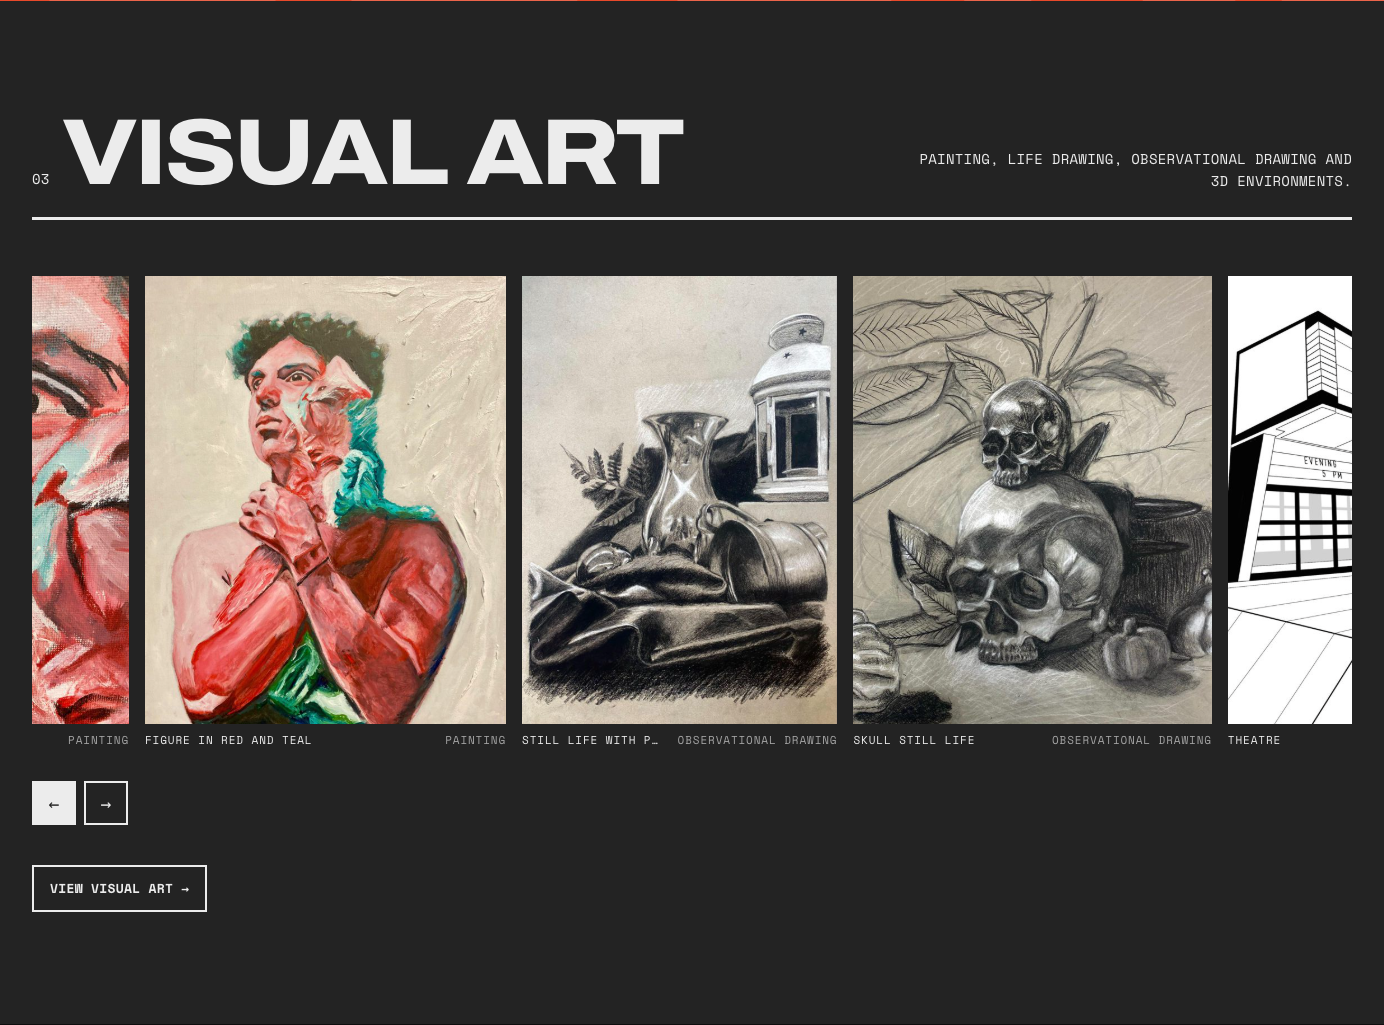
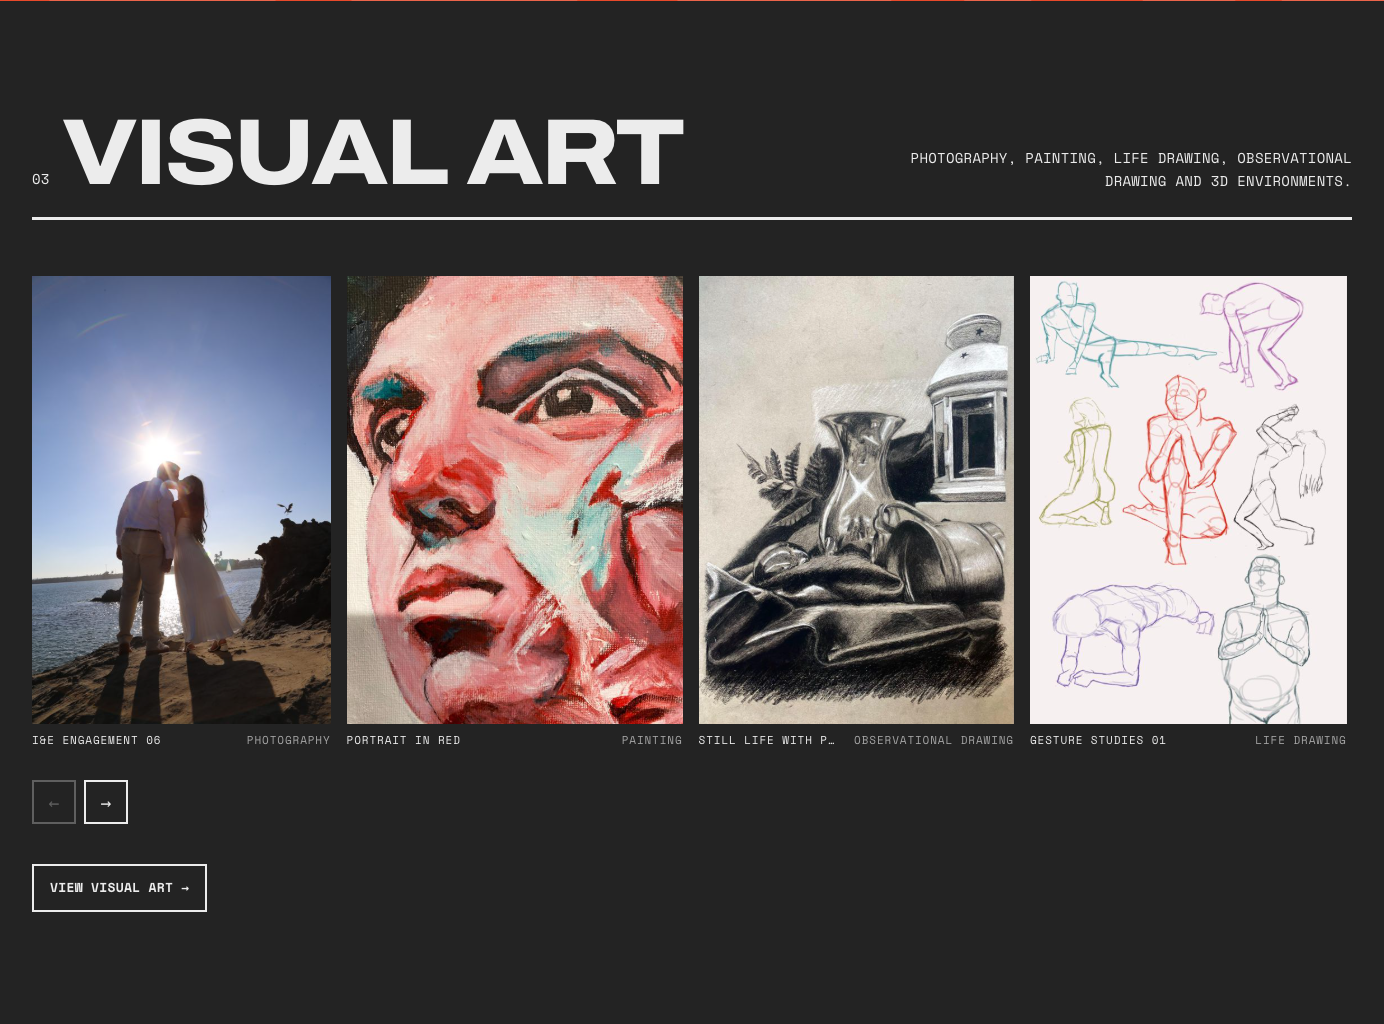
Add photography (54 photos in 4 collections) and mix the homepage art carousel

diff --git a/src/content/photography.ts b/src/content/photography.ts
@@ -1,0 +1,134 @@
+import type { PhotoCollection } from '../types/content'
+
+export const photoCollections: { id: PhotoCollection; label: string }[] = [
+  { id: 'weddings', label: 'Weddings & Engagements' },
+  { id: 'portraits', label: 'Portraits & Graduations' },
+  { id: 'food', label: 'Food & Product' },
+  { id: 'travel', label: 'Travel & Architecture' },
+]
+
+export interface PhotoEntry {
+  slug: string
+  series: string
+  collection: PhotoCollection
+  title: string
+  width: number
+  height: number
+  featured: boolean
+  altText: string
+}
+
+// Photos live in public/media/art/photo/ as <slug>.jpg (max 2000px) and
+// <slug>-thumb.jpg (max 800px). Full-size originals are kept in
+// photo-originals/ (not published). `featured: true` adds a photo to the
+// homepage carousel.
+export const photos: PhotoEntry[] = [
+  { slug: '5th-avenue-bagel-1', series: "5th Avenue Bagel", collection: 'food', title: "5th Avenue Bagel 01", width: 1333, height: 2000, featured: false,
+    altText: "Two pizza bagels with pepperoni on a dark wooden serving board" },
+  { slug: '5th-avenue-bagel-2', series: "5th Avenue Bagel", collection: 'food', title: "5th Avenue Bagel 02", width: 1333, height: 2000, featured: true,
+    altText: "Close-up of sesame and poppy seed bagels stacked on a wooden board" },
+  { slug: '5th-avenue-bagel-3', series: "5th Avenue Bagel", collection: 'food', title: "5th Avenue Bagel 03", width: 1333, height: 2000, featured: false,
+    altText: "Avocado, tomato and red onion bagel sandwiches on a wooden board" },
+  { slug: '5th-avenue-bagel-4', series: "5th Avenue Bagel", collection: 'food', title: "5th Avenue Bagel 04", width: 1333, height: 2000, featured: false,
+    altText: "Two avocado bagel sandwiches angled on a wooden board in soft light" },
+  { slug: '5th-avenue-bagel-5', series: "5th Avenue Bagel", collection: 'food', title: "5th Avenue Bagel 05", width: 1333, height: 2000, featured: false,
+    altText: "Two cups of fresh orange juice beside halved oranges" },
+  { slug: '5th-avenue-bagel-6', series: "5th Avenue Bagel", collection: 'food', title: "5th Avenue Bagel 06", width: 1333, height: 2000, featured: false,
+    altText: "Assorted everything and sesame bagels on a wooden board in late light" },
+  { slug: 'christian-and-riley-wedding-1', series: "Christian + Riley Wedding", collection: 'weddings', title: "Christian + Riley Wedding 01", width: 2000, height: 1333, featured: false,
+    altText: "Groom in a navy suit kissing the bride beside a bouquet of white and blue flowers" },
+  { slug: 'christian-and-riley-wedding-2', series: "Christian + Riley Wedding", collection: 'weddings', title: "Christian + Riley Wedding 02", width: 1333, height: 2000, featured: false,
+    altText: "Bride's hand with engagement ring holding a bouquet of white and blue flowers" },
+  { slug: 'christian-and-riley-wedding-3', series: "Christian + Riley Wedding", collection: 'weddings', title: "Christian + Riley Wedding 03", width: 2000, height: 1333, featured: false,
+    altText: "Bride and two friends smiling and pointing at her engagement ring in front of a fountain" },
+  { slug: 'emmanuel-graduation-1', series: "Emmanuel, Graduation", collection: 'portraits', title: "Emmanuel, Graduation 01", width: 1333, height: 2000, featured: false,
+    altText: "Graduate in cap and gown lying on the grass, smiling, with his cap beside him" },
+  { slug: 'emmanuel-headshots-1', series: "Emmanuel, Headshots", collection: 'portraits', title: "Emmanuel, Headshots 01", width: 1333, height: 2000, featured: false,
+    altText: "Young man in a black shirt standing against a white wall for a professional headshot" },
+  { slug: 'emmanuel-headshots-2', series: "Emmanuel, Headshots", collection: 'portraits', title: "Emmanuel, Headshots 02", width: 1333, height: 2000, featured: false,
+    altText: "Young man in a black shirt leaning on a white column in a gallery space" },
+  { slug: 'iande-engagement-1', series: "I&E Engagement", collection: 'weddings', title: "I&E Engagement 01", width: 2000, height: 1333, featured: false,
+    altText: "Couple sitting together on beach rocks at sunset with palm trees behind" },
+  { slug: 'iande-engagement-2', series: "I&E Engagement", collection: 'weddings', title: "I&E Engagement 02", width: 2000, height: 1333, featured: false,
+    altText: "Couple laughing on coastal rocks while a seagull stands nearby" },
+  { slug: 'iande-engagement-3', series: "I&E Engagement", collection: 'weddings', title: "I&E Engagement 03", width: 2000, height: 1333, featured: false,
+    altText: "Couple holding hands as they walk across sunlit coastal rocks" },
+  { slug: 'iande-engagement-4', series: "I&E Engagement", collection: 'weddings', title: "I&E Engagement 04", width: 1333, height: 2000, featured: false,
+    altText: "Close-up of a couple holding hands, his watch and her pleated white dress" },
+  { slug: 'iande-engagement-5', series: "I&E Engagement", collection: 'weddings', title: "I&E Engagement 05", width: 2000, height: 1333, featured: false,
+    altText: "Couple kissing among barrel cacti in a desert garden under a wavy canopy" },
+  { slug: 'iande-engagement-6', series: "I&E Engagement", collection: 'weddings', title: "I&E Engagement 06", width: 1333, height: 2000, featured: true,
+    altText: "Couple kissing on a cliff edge with the sun bursting behind them" },
+  { slug: 'iande-engagement-7', series: "I&E Engagement", collection: 'weddings', title: "I&E Engagement 07", width: 2000, height: 1333, featured: false,
+    altText: "Couple standing hand in hand on a path lined with agave plants" },
+  { slug: 'iande-engagement-8', series: "I&E Engagement", collection: 'weddings', title: "I&E Engagement 08", width: 2000, height: 1333, featured: false,
+    altText: "Couple reclining together on smooth coastal rock" },
+  { slug: 'iande-engagement-9', series: "I&E Engagement", collection: 'weddings', title: "I&E Engagement 09", width: 1333, height: 2000, featured: false,
+    altText: "Couple embracing by the ocean at golden hour" },
+  { slug: 'iande-proposal-1', series: "I&E Proposal", collection: 'weddings', title: "I&E Proposal 01", width: 1333, height: 2000, featured: false,
+    altText: "Close-up of a hand with a new engagement ring resting on a partner's chest" },
+  { slug: 'iande-proposal-2', series: "I&E Proposal", collection: 'weddings', title: "I&E Proposal 02", width: 1333, height: 2000, featured: false,
+    altText: "Newly engaged couple walking along the beach below hillside homes" },
+  { slug: 'iande-proposal-3', series: "I&E Proposal", collection: 'weddings', title: "I&E Proposal 03", width: 1333, height: 2000, featured: false,
+    altText: "Man kissing his fianc\u00e9e as she shows off her ring by the ocean" },
+  { slug: 'iande-proposal-4', series: "I&E Proposal", collection: 'weddings', title: "I&E Proposal 04", width: 1333, height: 2000, featured: false,
+    altText: "Newly engaged couple smiling by a railing above the sea" },
+  { slug: 'iande-proposal-5', series: "I&E Proposal", collection: 'weddings', title: "I&E Proposal 05", width: 1333, height: 2000, featured: true,
+    altText: "Man kneeling to propose on a clifftop overlook above the ocean" },
+  { slug: 'iande-proposal-6', series: "I&E Proposal", collection: 'weddings', title: "I&E Proposal 06", width: 1333, height: 2000, featured: false,
+    altText: "Two hands against an overcast sky, one wearing a diamond engagement ring" },
+  { slug: 'ingly-bridal-shower-1', series: "Ingly Bridal Shower", collection: 'weddings', title: "Ingly Bridal Shower 01", width: 1333, height: 2000, featured: false,
+    altText: "Bride-to-be and friends blowing kisses beside blue and yellow balloons at a lemon-themed bridal shower" },
+  { slug: 'ingly-bridal-shower-2', series: "Ingly Bridal Shower", collection: 'weddings', title: "Ingly Bridal Shower 02", width: 1333, height: 2000, featured: false,
+    altText: "Bride-to-be laughing as friends celebrate under a striped awning" },
+  { slug: 'ingly-bridal-shower-3', series: "Ingly Bridal Shower", collection: 'weddings', title: "Ingly Bridal Shower 03", width: 2000, height: 1333, featured: false,
+    altText: "Guests cheering and fanning the bride-to-be as she walks through the party" },
+  { slug: 'ingly-bridal-shower-4', series: "Ingly Bridal Shower", collection: 'weddings', title: "Ingly Bridal Shower 04", width: 2000, height: 1333, featured: false,
+    altText: "Bride-to-be chatting with guests in a garden decorated with lemons" },
+  { slug: 'julian-graduation-1', series: "Julian, Graduation", collection: 'portraits', title: "Julian, Graduation 01", width: 1333, height: 2000, featured: true,
+    altText: "Graduate in cap, gown and orange stole standing proudly in front of the university seal" },
+  { slug: 'julian-graduation-2', series: "Julian, Graduation", collection: 'portraits', title: "Julian, Graduation 02", width: 2000, height: 1333, featured: false,
+    altText: "Graduate holding up a decorated cap that reads 'If it's free, it's for me'" },
+  { slug: 'julian-graduation-3', series: "Julian, Graduation", collection: 'portraits', title: "Julian, Graduation 03", width: 1333, height: 2000, featured: false,
+    altText: "Smiling graduate in cap and CSUF stole in front of a science building" },
+  { slug: 'krisp-menu-1', series: "KRISP Menu", collection: 'food', title: "KRISP Menu 01", width: 1333, height: 2000, featured: false,
+    altText: "Chocolate cookie on a white plate against grey marble" },
+  { slug: 'krisp-menu-2', series: "KRISP Menu", collection: 'food', title: "KRISP Menu 02", width: 1333, height: 2000, featured: false,
+    altText: "Almond croissant on a white plate against grey marble" },
+  { slug: 'krisp-menu-3', series: "KRISP Menu", collection: 'food', title: "KRISP Menu 03", width: 1333, height: 2000, featured: false,
+    altText: "Spinach quiche in a paper case on a white plate" },
+  { slug: 'krisp-menu-4', series: "KRISP Menu", collection: 'food', title: "KRISP Menu 04", width: 1333, height: 2000, featured: false,
+    altText: "Almond croissant dusted with sugar on a white plate" },
+  { slug: 'krisp-menu-5', series: "KRISP Menu", collection: 'food', title: "KRISP Menu 05", width: 2000, height: 1333, featured: false,
+    altText: "Chocolate-drizzled almond pastry on a white plate" },
+  { slug: 'krisp-menu-6', series: "KRISP Menu", collection: 'food', title: "KRISP Menu 06", width: 1333, height: 2000, featured: false,
+    altText: "Plain butter croissant on a white plate on marble" },
+  { slug: 'krisp-menu-7', series: "KRISP Menu", collection: 'food', title: "KRISP Menu 07", width: 1333, height: 2000, featured: true,
+    altText: "Close-up of a chocolate-drizzled almond pastry on a white plate" },
+  { slug: 'krisp-menu-8', series: "KRISP Menu", collection: 'food', title: "KRISP Menu 08", width: 1333, height: 2000, featured: false,
+    altText: "Cupcake topped with a swirl of cream on a white plate" },
+  { slug: 'krisp-menu-9', series: "KRISP Menu", collection: 'food', title: "KRISP Menu 09", width: 2000, height: 1333, featured: false,
+    altText: "Cream-filled Danish pastry on a white plate, shot from above" },
+  { slug: 'osaka-2025-1', series: "Osaka 2025", collection: 'travel', title: "Osaka 2025 01", width: 2000, height: 1333, featured: false,
+    altText: "Shopping arcade sign and old street lamps in Osaka" },
+  { slug: 'osaka-2025-2', series: "Osaka 2025", collection: 'travel', title: "Osaka 2025 02", width: 1333, height: 2000, featured: true,
+    altText: "Osaka Castle's tiered roofs against an overcast sky" },
+  { slug: 'osaka-2025-3', series: "Osaka 2025", collection: 'travel', title: "Osaka 2025 03", width: 2000, height: 1333, featured: false,
+    altText: "Street lamps, power lines and shop signs on an Osaka street" },
+  { slug: 'osaka-2025-4', series: "Osaka 2025", collection: 'travel', title: "Osaka 2025 04", width: 2000, height: 1333, featured: false,
+    altText: "Flower shop in Osaka overflowing with bouquets and hanging plants" },
+  { slug: 'osaka-2025-5', series: "Osaka 2025", collection: 'travel', title: "Osaka 2025 05", width: 2000, height: 1333, featured: false,
+    altText: "Corner of Osaka Castle's curved roof against a grey sky" },
+  { slug: 'osaka-2025-6', series: "Osaka 2025", collection: 'travel', title: "Osaka 2025 06", width: 1333, height: 2000, featured: false,
+    altText: "Pine tree beside an Osaka Castle turret on a stone wall" },
+  { slug: 'osaka-2025-7', series: "Osaka 2025", collection: 'travel', title: "Osaka 2025 07", width: 2000, height: 1333, featured: false,
+    altText: "Osaka Castle moat and stone walls reflected in still water" },
+  { slug: 'osaka-2025-8', series: "Osaka 2025", collection: 'travel', title: "Osaka 2025 08", width: 2000, height: 1333, featured: false,
+    altText: "Record shop display window with vinyl records in Osaka" },
+  { slug: 'osaka-2025-9', series: "Osaka 2025", collection: 'travel', title: "Osaka 2025 09", width: 2000, height: 1333, featured: true,
+    altText: "Red and white paper lanterns over an Okinawa noodle shop sign" },
+  { slug: 'san-francisco-1', series: "San Francisco", collection: 'travel', title: "San Francisco 01", width: 1333, height: 2000, featured: true,
+    altText: "Classical columns and statues of the Palace of Fine Arts against a deep blue sky" },
+  { slug: 'san-francisco-2', series: "San Francisco", collection: 'travel', title: "San Francisco 02", width: 1333, height: 2000, featured: false,
+    altText: "Ornate arch and carved columns of the Palace of Fine Arts in sunlight" },
+]

diff --git a/src/pages/VisualArtPage.tsx b/src/pages/VisualArtPage.tsx
@@ -1,8 +1,9 @@
 import { useSearchParams } from 'react-router-dom'
 import { PhotographyGallery } from '../components/PhotographyGallery'
 import { PlaceholderNotice, SectionHeader } from '../components/ui'
-import { artworkCategories, artworks } from '../content/artworks'
-import type { ArtworkCategory } from '../types/content'
+import { artworkCategories, artworks, artworksInOrder } from '../content/artworks'
+import { photoCollections } from '../content/photography'
+import type { ArtworkCategory, PhotoCollection } from '../types/content'
 import { usePageMeta } from '../lib/usePageMeta'
 
 export default function VisualArtPage() {
@@ -14,13 +15,24 @@ export default function VisualArtPage() {
   const [params, setParams] = useSearchParams()
   const rawCategory = params.get('category')
   const category = artworkCategories.some((c) => c.id === rawCategory) ? (rawCategory as ArtworkCategory) : null
-  const visible = category ? artworks.filter((a) => a.category === category) : artworks
+  const rawCollection = params.get('collection')
+  const collection =
+    category === 'photography' && photoCollections.some((c) => c.id === rawCollection)
+      ? (rawCollection as PhotoCollection)
+      : null
+  // "All" mixes every kind of work; a chosen category keeps each shoot or series together.
+  const visible = category
+    ? artworksInOrder.filter((a) => a.category === category && (!collection || a.collection === collection))
+    : artworks
+  const count = (id: ArtworkCategory) => artworks.filter((a) => a.category === id).length
   const openId = params.get('image')
 
   const update = (key: string, value: string | null, replace = true) => {
     const next = new URLSearchParams(params)
     if (value) next.set(key, value)
     else next.delete(key)
+    // Switching category clears the photo-collection filter.
+    if (key === 'category') next.delete('collection')
     setParams(next, { replace })
   }
 
@@ -33,13 +45,13 @@ export default function VisualArtPage() {
         as="h1"
         number="03"
         title="Visual Art"
-        aside="Paintings, life drawing, observational drawing and 3D environments, with photography coming soon."
+        aside="Photography, painting, life drawing, observational drawing and 3D environments."
       />
 
       <div className="mb-8 flex flex-wrap items-center justify-between gap-4">
         <div role="group" aria-label="Filter by category" className="flex flex-wrap gap-2">
           <button type="button" className={chip(!category)} aria-pressed={!category} onClick={() => update('category', null)}>
-            All
+            All <span className="opacity-75">({artworks.length})</span>
           </button>
           {artworkCategories.filter((c) => artworks.some((a) => a.category === c.id)).map((c) => (
             <button
@@ -49,12 +61,36 @@ export default function VisualArtPage() {
               aria-pressed={category === c.id}
               onClick={() => update('category', c.id)}
             >
-              {c.label}
+              {c.label} <span className="opacity-75">({count(c.id)})</span>
             </button>
           ))}
         </div>
         {artworks.some((a) => a.placeholder) && <PlaceholderNotice>Placeholder images</PlaceholderNotice>}
       </div>
+
+      {category === 'photography' && (
+        <div role="group" aria-label="Filter photography by collection" className="-mt-4 mb-8 flex flex-wrap gap-x-5 gap-y-2">
+          <button
+            type="button"
+            aria-pressed={!collection}
+            onClick={() => update('collection', null)}
+            className={`label py-1 ${!collection ? 'text-fg underline decoration-2 underline-offset-4' : 'text-muted hover:text-fg'}`}
+          >
+            All photography
+          </button>
+          {photoCollections.map((c) => (
+            <button
+              key={c.id}
+              type="button"
+              aria-pressed={collection === c.id}
+              onClick={() => update('collection', c.id)}
+              className={`label py-1 ${collection === c.id ? 'text-fg underline decoration-2 underline-offset-4' : 'text-muted hover:text-fg'}`}
+            >
+              {c.label}
+            </button>
+          ))}
+        </div>
+      )}
 
       <p className="sr-only" role="status" aria-live="polite">
         Showing {visible.length} images

diff --git a/src/content/artworks.ts b/src/content/artworks.ts
@@ -1,4 +1,5 @@
 import type { Artwork, ArtworkCategory } from '../types/content'
+import { photos } from './photography'
 
 export const artworkCategories: { id: ArtworkCategory; label: string }[] = [
   { id: 'photography', label: 'Photography' },
@@ -97,7 +98,7 @@ const entries: Entry[] = [
     altText: "Detail of the film camera body and film reel housing" },
 ]
 
-export const artworks: Artwork[] = entries.map((e) => ({
+const artPieces: Artwork[] = entries.map((e) => ({
   id: `a-${e.slug}`,
   title: e.title,
   imageUrl: `/media/art/${e.slug}.jpg`,
@@ -108,8 +109,64 @@ export const artworks: Artwork[] = entries.map((e) => ({
   date: '',
   medium: e.medium,
   caption: e.caption ?? e.series,
+  series: e.series,
   altText: e.altText,
   featured: e.featured,
 }))
 
-export const featuredArtworks = () => artworks.filter((a) => a.featured)
+const photoPieces: Artwork[] = photos.map((p) => ({
+  id: `a-${p.slug}`,
+  title: p.title,
+  imageUrl: `/media/art/photo/${p.slug}.jpg`,
+  thumbnailUrl: `/media/art/photo/${p.slug}-thumb.jpg`,
+  width: p.width,
+  height: p.height,
+  category: 'photography',
+  collection: p.collection,
+  series: p.series,
+  date: '',
+  medium: 'Photography',
+  caption: p.series,
+  altText: p.altText,
+  featured: p.featured,
+}))
+
+/**
+ * Deal items out one group at a time (A1, B1, C1, A2, B2, …) so a list mixes
+ * kinds of work instead of showing one category in a long run.
+ */
+export function interleave<T>(items: T[], groupOf: (item: T) => string): T[] {
+  const groups = new Map<string, T[]>()
+  for (const item of items) {
+    const key = groupOf(item)
+    groups.set(key, [...(groups.get(key) ?? []), item])
+  }
+  const queues = [...groups.values()]
+  const out: T[] = []
+  for (let i = 0; out.length < items.length; i++) {
+    for (const q of queues) if (q[i]) out.push(q[i])
+  }
+  return out
+}
+
+/** Every piece in source order (each shoot or series kept together). */
+export const artworksInOrder: Artwork[] = [...photoPieces, ...artPieces]
+
+/** Every piece, mixed across categories (and photo collections) for the "All" view. */
+export const artworks: Artwork[] = interleave([...photoPieces, ...artPieces], (a) => a.collection ?? a.category)
+
+/** Featured pieces for the homepage carousel, alternating between kinds of work. */
+const carouselPhotoOrder = ['weddings', 'travel', 'portraits', 'food']
+
+export const featuredArtworks = () =>
+  interleave(
+    [
+      // Lead with a different kind of photo each time photography comes round.
+      ...interleave(
+        photoPieces.filter((a) => a.featured),
+        (a) => a.collection ?? '',
+      ).sort((a, b) => carouselPhotoOrder.indexOf(a.collection ?? '') - carouselPhotoOrder.indexOf(b.collection ?? '')),
+      ...artPieces.filter((a) => a.featured),
+    ],
+    (a) => a.category,
+  )

diff --git a/src/test/app.test.tsx b/src/test/app.test.tsx
@@ -159,9 +159,19 @@ describe('photography', () => {
     const user = userEvent.setup()
     renderAt('/visual-art')
     await screen.findByRole('heading', { level: 1 })
-    await user.click(screen.getByRole('button', { name: 'Painting' }))
+    await user.click(screen.getByRole('button', { name: /^Painting/ }))
     const n = artworks.filter((a) => a.category === 'painting').length
     expect(screen.getAllByRole('button', { name: /in viewer/ })).toHaveLength(n)
+
+    // Photography has its own collections.
+    await user.click(screen.getByRole('button', { name: /^Photography/ }))
+    expect(screen.getAllByRole('button', { name: /in viewer/ })).toHaveLength(
+      artworks.filter((a) => a.category === 'photography').length,
+    )
+    await user.click(screen.getByRole('button', { name: 'Travel & Architecture' }))
+    expect(screen.getAllByRole('button', { name: /in viewer/ })).toHaveLength(
+      artworks.filter((a) => a.collection === 'travel').length,
+    )
   })
 
   it('every artwork has alt text and dimensions', () => {

diff --git a/src/types/content.ts b/src/types/content.ts
@@ -85,6 +85,7 @@ export interface MusicRelease {
 }
 
 export type ArtworkCategory = 'photography' | '3d' | 'life-drawing' | 'painting' | 'drawing'
+export type PhotoCollection = 'weddings' | 'portraits' | 'food' | 'travel'
 
 export interface Artwork {
   id: string
@@ -94,6 +95,10 @@ export interface Artwork {
   width: number
   height: number
   category: ArtworkCategory
+  /** Photography only: which collection the photo belongs to. */
+  collection?: PhotoCollection
+  /** Shoot or project the piece belongs to, e.g. "Osaka 2025". */
+  series?: string
   /** ISO date (YYYY-MM-DD) or year. */
   date: string
   caption?: string

diff --git a/src/components/ImageLightbox.tsx b/src/components/ImageLightbox.tsx
@@ -111,7 +111,7 @@ export function ImageLightbox({ items, index, onClose, onNavigate }: Props) {
               {item.title}
             </h2>
             <p className="label mt-1 text-[#c9c9c9]">
-              {[artworkCategories.find((c) => c.id === item.category)?.label, item.medium, item.date].filter(Boolean).join(' · ')}
+              {[...new Set([artworkCategories.find((c) => c.id === item.category)?.label, item.medium, item.date])].filter(Boolean).join(' · ')}
             </p>
             {item.caption && <p className="mt-2 max-w-[60ch] text-[#e5e5e5]">{item.caption}</p>}
           </div>

diff --git a/src/pages/HomePage.tsx b/src/pages/HomePage.tsx
@@ -72,7 +72,7 @@ export default function HomePage() {
         <SectionHeader
           number="03"
           title={<span id="home-lens">Visual Art</span>}
-          aside="Painting, life drawing, observational drawing and 3D environments."
+          aside="Photography, painting, life drawing, observational drawing and 3D environments."
         />
         <div data-reveal>
           <ArtCarousel items={artworks} />
